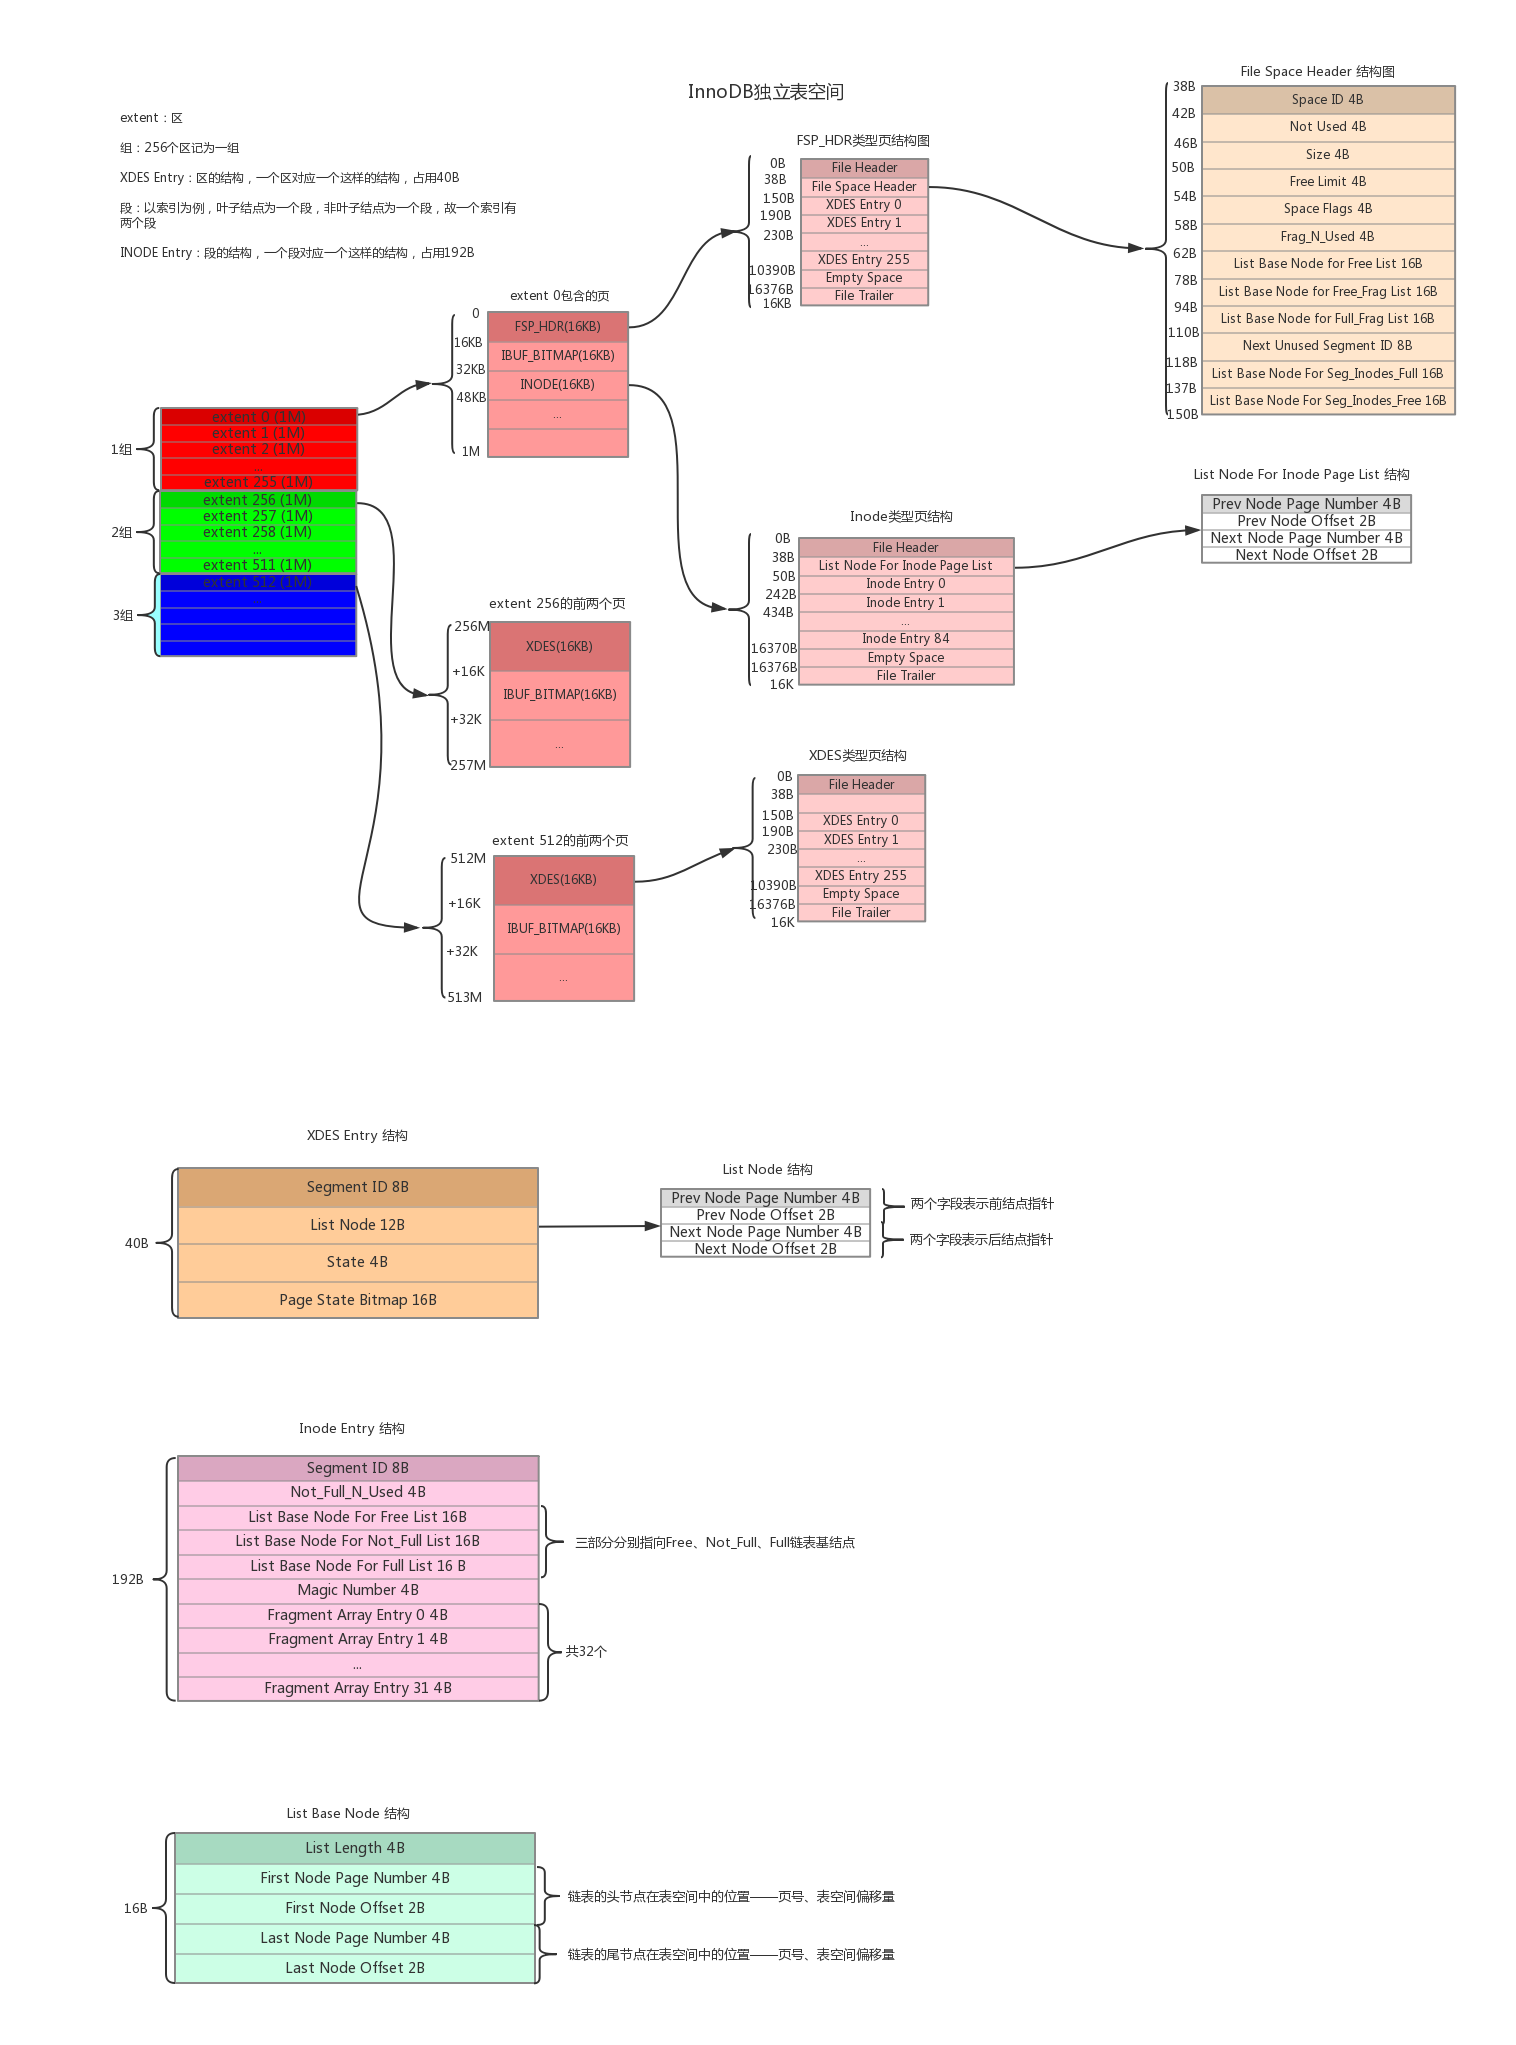
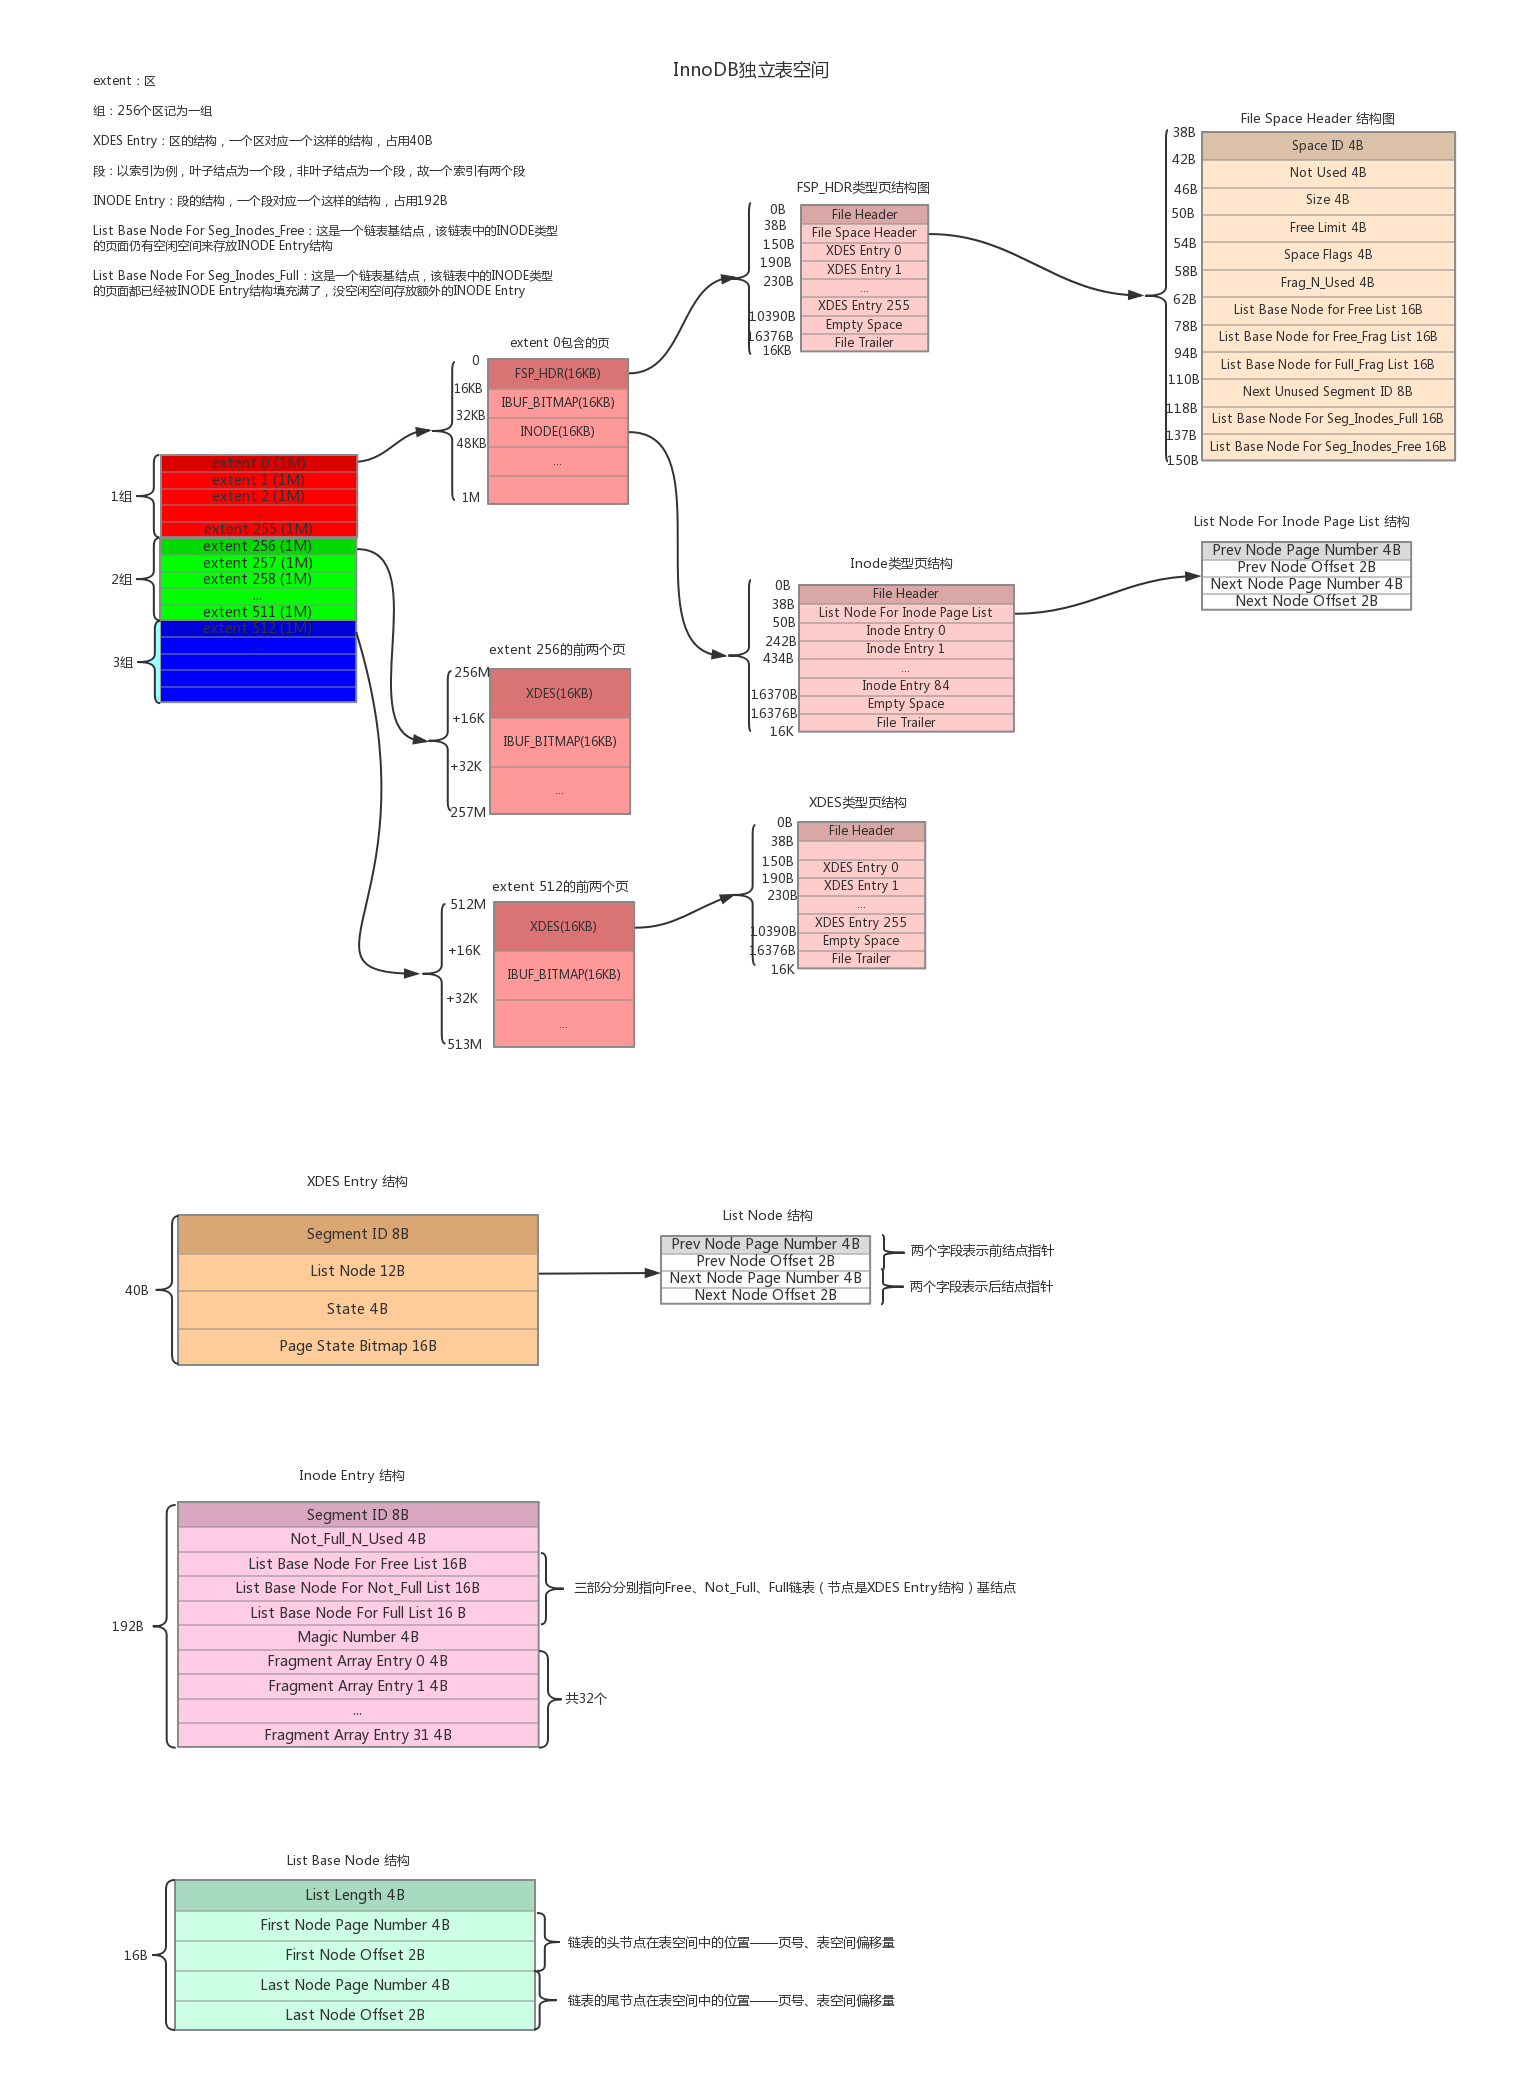
修改编辑错误

diff --git a/_posts/mysql/2019-11-01-separate-table-space.md b/_posts/mysql/2019-11-01-separate-table-space.md
@@ -72,7 +72,7 @@ permalink: separate-innodb-table-space
 
 **以索引为例，叶子结点为一个段，非叶子结点为一个段，所以一个索引有两个段，当然还有其他类型的段，例如对于一个包含聚簇索引、二级索引的表，那么它有4个段**
 
-**每个段对应一个结构INODE Entry，**而段对应哪个INODE Entry结构是在INDEX类型的页有一个Page Header部分存储的————PAGE_BTR_SEG_LEAF、PAGE_BTR_SEG_TOP，关于页类型可以参考这篇[文章][leaf_type]
+**每个段对应一个结构INODE Entry，**而段对应哪个INODE Entry结构是在INDEX类型的页有一个Page Header部分存储的————PAGE_BTR_SEG_LEAF、PAGE_BTR_SEG_TOP，关于INDEX类型页可以参考这篇[文章][leaf_type]
 ，PAGE_BTR_SEG_LEAF和PAGE_BTR_SEG_TOP都占用10个字节，它们都对应一个Segment Header的结构，下表是这个结构的组成：
 
 |名称|占用字节|描述|
@@ -81,7 +81,8 @@ permalink: separate-innodb-table-space
 |Page Number of the INODE Entry|4|INODE Entry结构所在的页面页号|
 |Byte Offset of the INODE Ent|2|INODE Entry结构在该页面中的偏移量|
 
-PAGE_BTR_SEG_LEAF记录着叶子节点段对应的INODE Entry结构的地址是哪个表空间的哪个页面的哪个偏移量，
+PAGE_BTR_SEG_LEAF记录着叶子节点段对应的INODE Entry结构的地址是哪个表空间的哪个页面的哪个偏移量
+
 PAGE_BTR_SEG_TOP记录着非叶子节点段对应的INODE Entry结构的地址是哪个表空间的哪个页面的哪个偏移量
 
 **一个索引只对应两个段，所以只需要在索引的根页面中记录这两个结构**
@@ -232,6 +233,8 @@ InnoDB中还有为存储一些特殊的数据而定义的段，例如回滚段
 ### XDES类型的页
 
 从结构图看出除了第一组外余下的每组的第一个区的首页是XDES类型的页，也看到它和FSP_HDR类型的页的差别就是少了File Space Header部分，也就是除了少了记录表空间整体属性的部分之外，其余的部分是一样的
+
+--------------------------------------------------
 
 ### INODE类型的页
 
